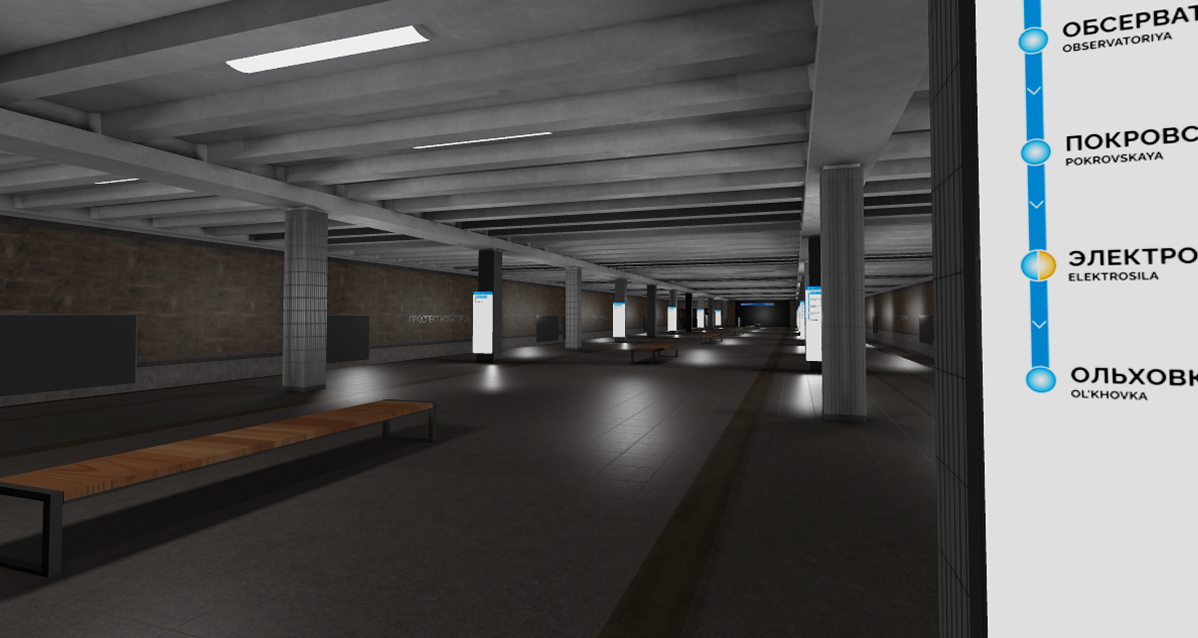
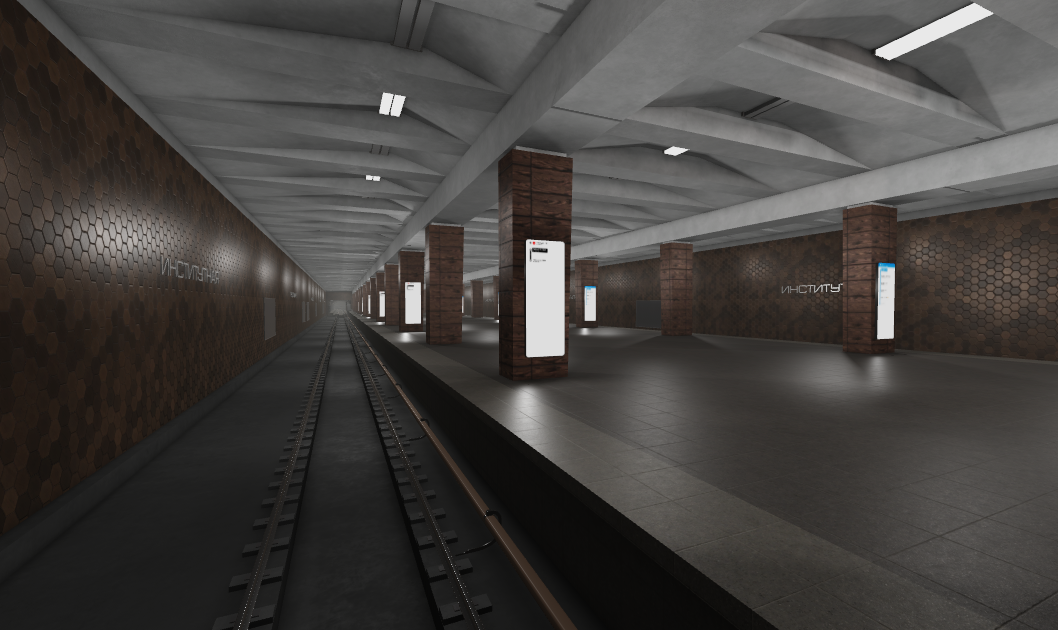
Add files via upload

diff --git a/script.js b/script.js
@@ -3,16 +3,21 @@ document.addEventListener('DOMContentLoaded', () => {
     const nodes = document.querySelectorAll('.node');
     let currentIndex = 0;
     
+    // Если на странице нет слайдера (например, страница фотогалереи), скрипт просто ничего не делает
     if (!slider) return;
     
     const totalSlides = nodes.length;
     let isAnimating = false;
 
+    // Восстанавливаем позицию из localStorage при загрузке страницы,
+    // чтобы при возврате из галереи остаться на том же слайде
     const savedSlide = localStorage.getItem('currentSlide');
     if (savedSlide !== null) {
         currentIndex = parseInt(savedSlide);
+        // Убираем анимацию для моментального перехода
         slider.style.transition = 'none';
         goToSlide(currentIndex);
+        // Возвращаем анимацию обратно с небольшой задержкой
         setTimeout(() => {
             slider.style.transition = 'transform 0.8s cubic-bezier(0.25, 1, 0.5, 1)';
         }, 50);
@@ -27,6 +32,7 @@ document.addEventListener('DOMContentLoaded', () => {
         nodes.forEach(node => node.classList.remove('active'));
         nodes[currentIndex].classList.add('active');
         
+        // Сохраняем номер текущего слайда
         localStorage.setItem('currentSlide', currentIndex);
         
         isAnimating = true;
@@ -43,6 +49,7 @@ document.addEventListener('DOMContentLoaded', () => {
         });
     });
 
+    // Touch Swipe Support
     let startX = 0;
     let endX = 0;
 
@@ -68,6 +75,7 @@ document.addEventListener('DOMContentLoaded', () => {
         }
     }
 
+    // Mouse Wheel Scroll Support
     window.addEventListener('wheel', (e) => {
         if (isAnimating) return;
         if (e.deltaY > 0) {

diff --git a/observatory.html b/observatory.html
@@ -1,0 +1,60 @@
+<!DOCTYPE html>
+<html lang="ru">
+<head>
+    <meta charset="UTF-8">
+    <meta name="viewport" content="width=device-width, initial-scale=1.0">
+    <title>Обсерватория - Фотографии</title>
+    <link rel="stylesheet" href="style.css">
+    <style>
+        .gallery-container {
+            width: 100vw;
+            height: 100vh;
+            display: flex;
+            flex-direction: column;
+            align-items: center;
+            padding: 80px 20px;
+            overflow-y: auto;
+        }
+        .back-btn {
+            position: fixed;
+            top: 30px;
+            left: 30px;
+            font-size: 2rem;
+            color: var(--text-color);
+            text-decoration: none;
+            transition: transform 0.2s ease;
+            z-index: 100;
+        }
+        .back-btn:hover {
+            transform: translateX(-5px);
+        }
+        .gallery-grid {
+            display: flex;
+            flex-direction: column;
+            gap: 40px;
+            max-width: 1000px;
+            width: 100%;
+        }
+        .gallery-img {
+            width: 100%;
+            height: auto;
+            border-radius: 12px;
+            box-shadow: 0 10px 30px rgba(0,0,0,0.5);
+            border: 2px solid var(--text-color);
+        }
+    </style>
+</head>
+<body>
+    <a href="index.html" class="back-btn">&#8592;</a>
+    
+    <div class="gallery-container">
+        <h1 class="title" style="margin-bottom: 50px; font-size: 3rem; white-space: normal; text-align: center;">Обсерватория</h1>
+        
+        <div class="gallery-grid">
+            <img src="7.jpg" alt="Фото 7" class="gallery-img">
+            <img src="8.jpg" alt="Фото 8" class="gallery-img">
+            <img src="9.jpg" alt="Фото 9" class="gallery-img">
+        </div>
+    </div>
+</body>
+</html>

diff --git a/institutional.html b/institutional.html
@@ -3,7 +3,7 @@
 <head>
     <meta charset="UTF-8">
     <meta name="viewport" content="width=device-width, initial-scale=1.0">
-    <title>Институтская - Фотографии</title>
+    <title>Институтная - Фотографии</title>
     <link rel="stylesheet" href="style.css">
     <style>
         .gallery-container {
@@ -48,10 +48,10 @@
     <a href="index.html" class="back-btn">&#8592;</a>
     
     <div class="gallery-container">
-        <h1 class="title" style="margin-bottom: 50px; font-size: 3rem;">Институтская</h1>
+        <h1 class="title" style="margin-bottom: 50px; font-size: 3rem;">Институтная</h1>
         
         <div class="gallery-grid">
-            <img src="1.png" alt="Фото 1" class="gallery-img">
+            <img src="1_2.jpg" alt="Фото 1" class="gallery-img">
             <img src="2.png" alt="Фото 2" class="gallery-img">
             <img src="3.png" alt="Фото 3" class="gallery-img">
         </div>

diff --git a/index.html b/index.html
@@ -101,9 +101,9 @@
             <div class="content-wrapper">
                 <h1 class="title">ФОТОГРАФИИ</h1>
                 <div class="links-grid">
-                    <a href="institutional.html" class="btn-outline">Институтская</a>
+                    <a href="institutional.html" class="btn-outline">Институтная</a>
                     <a href="novatorov_avenue.html" class="btn-outline">Проспект Новаторов</a>
-                    <span class="btn-outline disabled">Электросила</span>
+                    <a href="observatory.html" class="btn-outline">Обсерватория</a>
                     <span class="btn-outline disabled">Ольховка</span>
                 </div>
             </div>

diff --git a/style.css b/style.css
@@ -42,7 +42,7 @@ body {
 
 .content-wrapper {
     width: 100%;
-    max-width: 1800px;
+    max-width: 1800px; /* Увеличено с 1400px для поддержки более широких блоков */
     display: flex;
     flex-direction: column;
     align-items: center;
